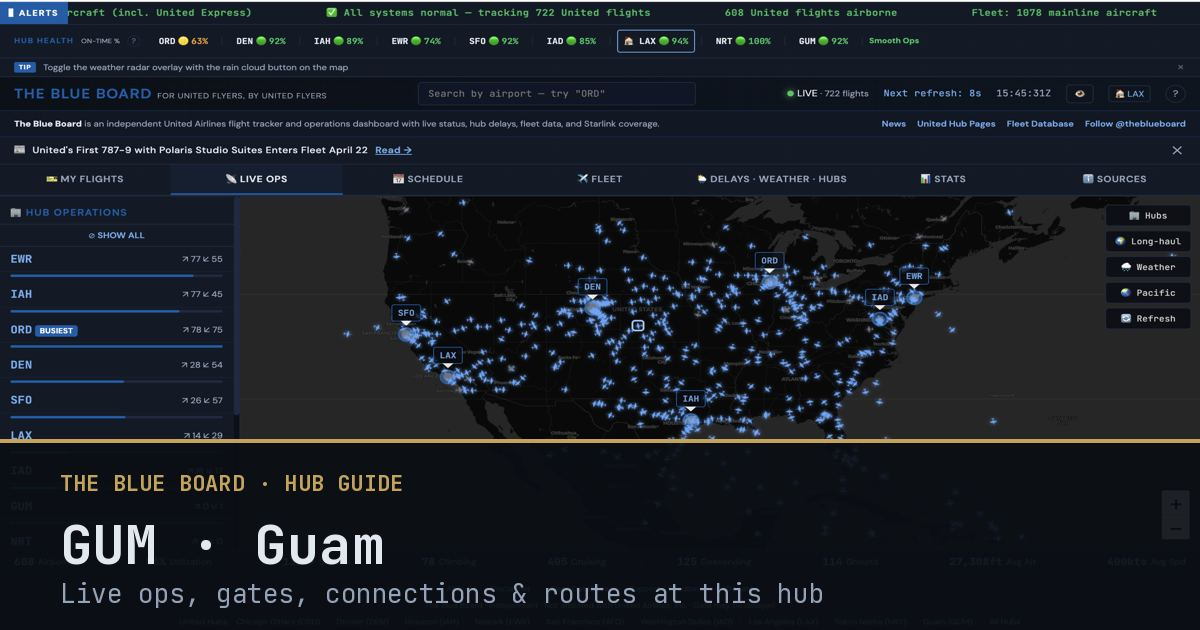
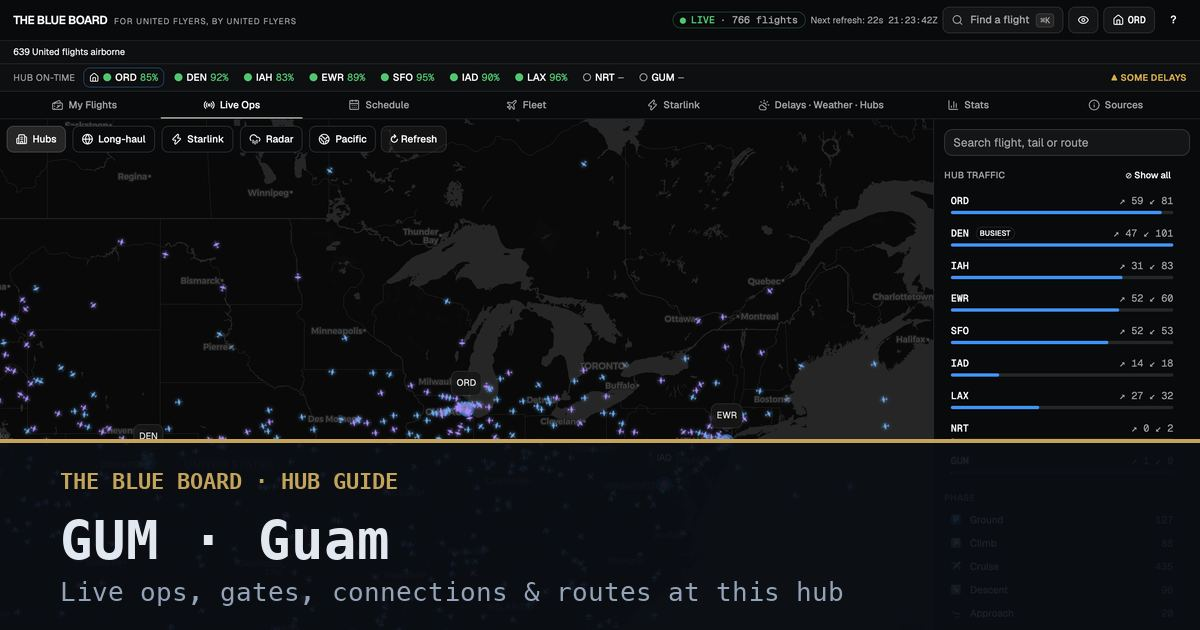
docs: README + social previews show the rebuilt site (v1.11.8)
- public/og-image.png still showed the pre-v1.8.0 dashboard; now today's Live
  Ops view. All 15 public/og/ cards regenerated from it; generate-og.py now
  shrinks titles that would overflow the card.
- README: new screenshots in docs/screenshots/, fleet 1,139, Starlink 600+,
  schedules credited to AeroDataBox (not FR24), current cron/cache timings,
  current Supabase tables, Supporters Wall + membership tiers.
- No change under public/email/ (the scheduled update email's images).

Claude-Session: https://claude.ai/code/session_01S1z7jwKVqTDCafSU9gufkN

diff --git a/scripts/generate-og.py b/scripts/generate-og.py
@@ -78,11 +78,21 @@ def render(label_top, label_main, label_sub, out_path):
     draw.rectangle([0, band_top, W, H], fill=BG_TINT)
     draw.line([0, band_top, W, band_top], fill=AMBER, width=4)
 
-    font_label = load_font(FONT_CANDIDATES_BOLD, 22)
-    font_main = load_font(FONT_CANDIDATES_BOLD, 54)
-    font_sub = load_font(FONT_CANDIDATES_REG, 26)
-
     pad_x = 60
+    font_label = load_font(FONT_CANDIDATES_BOLD, 22)
+    # Long titles ("What's United Building at Your Hub?") ran off the right edge at 54px:
+    # step the size down until each line fits inside the side padding.
+    main_size = 54
+    font_main = load_font(FONT_CANDIDATES_BOLD, main_size)
+    while main_size > 34 and draw.textlength(label_main, font=font_main) > W - 2 * pad_x:
+        main_size -= 2
+        font_main = load_font(FONT_CANDIDATES_BOLD, main_size)
+    sub_size = 26
+    font_sub = load_font(FONT_CANDIDATES_REG, sub_size)
+    while sub_size > 18 and draw.textlength(label_sub, font=font_sub) > W - 2 * pad_x:
+        sub_size -= 1
+        font_sub = load_font(FONT_CANDIDATES_REG, sub_size)
+
     y = band_top + 28
     draw.text((pad_x, y), label_top, font=font_label, fill=AMBER)
     y += 40

diff --git a/README.md b/README.md
@@ -4,7 +4,7 @@
 
 **[→ Live Dashboard](https://theblueboard.co)** · **[📋 Changelog](CHANGELOG.md)** · **[🎨 Design System](DESIGN.md)** · **[☕ Support the Project](https://buymeacoffee.com/notjbg)** · **[💡 Suggest a Feature](https://github.com/jonahberg/the-blue-board/issues)** · **[𝕏 Follow @theblueboard](https://x.com/theblueboard)**
 
-![The Blue Board — Live Operations Map](public/og-image.png)
+![The Blue Board — Live Ops: every United flight in the air, with on-time performance for every hub](docs/screenshots/live-ops.jpg)
 
 <!-- This is a static Markdown file and cannot import the data modules.
      Hub-count language and the fleet database count below must be kept in sync
@@ -21,6 +21,13 @@ The Blue Board is a fan-built operations dashboard that lets you see United Airl
 
 **Not affiliated with United Airlines, Inc.** This is an independent project by an aviation enthusiast.
 
+| | |
+|---|---|
+| ![Departure board for Chicago O'Hare with tail numbers, seat configs, Wi-Fi and LIVE tags](docs/screenshots/departure-board.jpg) | ![Starlink rollout: aircraft equipped and month-by-month installation pace](docs/screenshots/starlink.jpg) |
+| **Schedule** — every hub's departures and arrivals, with tail, seat config and Wi-Fi | **Starlink** — the rollout tracked tail by tail |
+| ![What's Changing at United's Hubs? tracker](docs/screenshots/hub-tracker.jpg) | ![The Blue Board on a phone](docs/screenshots/mobile.jpg) |
+| **Trackers** — every new club, gate and concourse at United's hubs | **Mobile** — built for the phone in your hand at the gate |
+
 ---
 
 ## Features
@@ -35,10 +42,10 @@ Server-side disruption scoring across all 8 United hubs plus the Tokyo-Narita ga
 Departure and arrival boards for all 9 UA hubs (ORD, DEN, IAH, EWR, SFO, IAD, LAX, NRT, GUM). Filter by status or aircraft type. Equipment swap detection flags when a plane type changes. On-time performance stats. All times in airport-local timezone.
 
 ### ✈ [Fleet](https://theblueboard.co#fleet)
-Complete database of 1,078+ mainline aircraft — searchable and sortable by type, registration, seat config, WiFi, and IFE. Live fleet status correlates airborne flights with the database, and a delivery timeline charts the fleet by family. **19 dedicated fleet type pages** ([737 MAX 9](https://theblueboard.co/fleet/737-max-9), [A321neo](https://theblueboard.co/fleet/a321neo), [787-9](https://theblueboard.co/fleet/787-9-dreamliner), etc.) with full aircraft registries, structured data, and cross-type navigation.
+Database of 1,139 mainline aircraft (snapshot as of Sep 28, 2026) — searchable and sortable by type, registration, seat config, WiFi, and IFE. Live fleet status correlates airborne flights with the database, and a delivery timeline charts the fleet by family. **19 dedicated fleet type pages** ([737 MAX 9](https://theblueboard.co/fleet/737-max-9), [A321neo](https://theblueboard.co/fleet/a321neo), [787-9](https://theblueboard.co/fleet/787-9-dreamliner), etc.) with full aircraft registries, structured data, and cross-type navigation.
 
 ### 🛰 [Starlink](https://theblueboard.co#starlink)
-Its own tab since the rebuild. The full roster of Starlink-equipped aircraft (500+ and climbing toward United's ~1,000 target) with sortable columns and filters by fleet, type, and operator, a retrofit-pace chart with a completion projection, and a mismatch report that flags aircraft the upstream tracker and the fleet database disagree about.
+Its own tab since the rebuild. The full roster of Starlink-equipped aircraft (600+ and climbing toward United's ~1,000 end-of-2026 target) with sortable columns and filters by fleet, type, and operator, a retrofit-pace chart with a completion projection, and a mismatch report that flags aircraft the upstream tracker and the fleet database disagree about.
 
 ### 🎫 [My Flights](https://theblueboard.co#myflight)
 Save the flights you actually care about. Add one by number, see its live position, route, aircraft and times, and pin it to the watch list for browser push notifications on status changes — including background alerts that fire with the tab closed ([setup](docs/setup-push-alerts.md)). Stored on your device; nothing is sent to a server you didn't ask for.
@@ -99,8 +106,8 @@ Living, data-driven pages that follow aviation's long-running stories — each w
     ┌──────────▼──────────────────────────────┐
     │        Vercel Serverless Functions       │
     │                                          │
-    │  /api/schedule        — hub boards (FR24 │
-    │                         + AeroDataBox)   │
+    │  /api/schedule        — hub boards       │
+    │                         (AeroDataBox)    │
     │  /api/irops           — IROPS metrics    │
     │  /api/fr24-feed       — live flight feed │
     │  /api/fr24-flight     — flight lookup    │
@@ -121,7 +128,7 @@ Living, data-driven pages that follow aviation's long-running stories — each w
     │  /api/fr24-usage      — credit monitor   │
     │                                          │
     │  Cron jobs (vercel.json):                │
-    │  /api/cron/warm-schedules  — hourly      │
+    │  /api/cron/warm-schedules  — every 30min │
     │  /api/cron/sync-starlink   — every 4hrs  │
     │  /api/cron/refresh-metar   — every 5min  │
     │  /api/cron/watch-alerts    — every 5min  │
@@ -130,7 +137,9 @@ Living, data-driven pages that follow aviation's long-running stories — each w
     ┌──────────▼──────────────────────────────┐
     │           Supabase (Postgres)            │
     │  waitlist · schedule_snapshots           │
-    │  news_notifications · push_subscriptions │
+    │  reg_sightings · watch_subscriptions     │
+    │  schedule_provider_spend                 │
+    │  news_notifications · starlink_snapshot  │
     │  RLS policies on every table             │
     └─────────────────────────────────────────┘
 ```
@@ -143,7 +152,7 @@ asset prefix.
 ### Why Server-Side Proxies?
 
 - **Rate limiting** — One server fetches data for all users, not 500 browsers hammering APIs independently
-- **Caching** — Complete schedule boards cached up to 6h at the edge (60s when partial), IROPS cached 5min, reducing upstream load by 90%+
+- **Caching** — Schedule boards are served from the edge cache and Supabase snapshots and refreshed through the day (hourly while people are viewing them), IROPS cached 5min, reducing upstream load by 90%+
 - **UA filtering** — Server filters to United flights only, shrinking payloads dramatically
 - **CORS** — Some sources (AWC, FAA) don't allow direct browser requests
 - **Batching** — METAR data for all 9 tracked boards (United's 8 hubs plus the Tokyo-Narita gateway) fetched in a single request
@@ -154,16 +163,16 @@ asset prefix.
 
 | Source | Data | Freshness | Notes |
 |--------|------|-----------|-------|
-| [Flightradar24](https://flightradar24.com) | Live positions, schedules, flight lookup | ~15s–60s | Server-side proxy with caching; schedules can recover through a configured FR24 scraper transport when direct fetches are blocked |
-| [AeroDataBox](https://aerodatabox.com) | Hub schedule boards (refresh + fallback) | Hourly warm + on-demand | Metered api.market (MagicAPI) gateway (RapidAPI-compatible); spend capped by a cross-instance daily unit budget |
+| [Flightradar24](https://flightradar24.com) | Live positions, flight lookup, aircraft history | ~15s–60s | Official FR24 API, server-side proxy with caching |
+| [AeroDataBox](https://aerodatabox.com) | Hub schedule boards | Every 30 min + on-demand | Metered api.market (MagicAPI) gateway (RapidAPI-compatible); spend capped by a cross-instance daily unit budget |
 | [Aviation Weather Center](https://aviationweather.gov) | METAR observations | ~5min | NOAA/CORS proxy, batched |
 | [FAA NAS Status](https://nasstatus.faa.gov) | Delays & ground stops | ~5min | XML→JSON proxy |
-| [United Fleet Site](https://unitedfleetsite.com/) | Fleet database | Daily | Community-maintained |
-| [Starlink Tracker](https://unitedstarlinktracker.com) | WiFi-equipped aircraft | Daily | [@martinamps](https://github.com/martinamps/ua-starlink-tracker) |
+| [United Fleet Site](https://unitedfleetsite.com/) | Fleet database | Periodic snapshot (Sep 28, 2026) | Community-maintained; new tails confirmed in the FAA registry |
+| [Starlink Tracker](https://unitedstarlinktracker.com) | WiFi-equipped aircraft | Every 4 hours | [@martinamps](https://github.com/martinamps/ua-starlink-tracker) |
 | [Iowa State NEXRAD](https://mesonet.agron.iastate.edu) | Radar imagery | ~5min | Direct tile server |
-| [Supabase](https://supabase.com) | Waitlist, schedule snapshots, notifications | Real-time | Postgres with RLS |
-| [Anthropic Claude](https://anthropic.com) | AI delay explanations | On-demand | Haiku model, cached 5min |
-| [Resend](https://resend.com) | Email delivery | On-demand | Welcome emails, news digests |
+| [Supabase](https://supabase.com) | Waitlist, schedule snapshots, tail sightings, watch alerts | Real-time | Postgres with RLS |
+| [Anthropic Claude](https://anthropic.com) | AI delay explanations | On-demand | Claude Haiku 4.5 via Vercel AI Gateway, cached 5min |
+| [Resend](https://resend.com) | Email delivery | On-demand | Welcome emails, update emails |
 
 ---
 
@@ -177,8 +186,8 @@ asset prefix.
 - **Radar:** Iowa State NEXRAD WMS tiles
 - **Fonts:** [Geist Sans + Geist Mono](https://vercel.com/font) via `@fontsource-variable`, bundled into `_astro/` — no font CDN
 - **Hosting:** [Vercel](https://vercel.com) (serverless functions + edge CDN + routing middleware)
-- **Database:** [Supabase](https://supabase.com) (waitlist, schedule snapshots, news notifications, push subscriptions)
-- **Email:** [Resend](https://resend.com) (waitlist welcome emails, news digest broadcasts)
+- **Database:** [Supabase](https://supabase.com) (waitlist, schedule snapshots, tail sightings, watch subscriptions, provider spend)
+- **Email:** [Resend](https://resend.com) (waitlist welcome emails, update broadcasts)
 - **AI:** [Anthropic Claude](https://anthropic.com) via the Vercel AI Gateway (delay explanations)
 - **Runtime:** [Bun](https://bun.sh) (package manager + script runner)
 - **Testing:** [Vitest](https://vitest.dev) + [Playwright](https://playwright.dev) (`bun run test`, never bare `bun test`)
@@ -247,9 +256,9 @@ This project is free, ad-free, and open source. It costs real money to keep runn
 
 If The Blue Board has saved you a trip to the gate screen or helped you spot an equipment swap before boarding, consider supporting the project:
 
-### **[→ Donate](https://buymeacoffee.com/notjbg)**
+### **[→ Buy the board a Wi-Fi pass](https://buymeacoffee.com/notjbg)** · **[→ Become a member](https://buymeacoffee.com/notjbg/membership)**
 
-Every donation helps cover server costs and keeps the dashboard free for everyone. You can also suggest a feature with your coffee — I read every one.
+Every supporter goes on the **Supporters Wall** (About, on the dashboard). Memberships start at $3/month: Crew Members get their name on the wall, First Class members also get *The Ops Brief* — a monthly behind-the-scenes note — and Captain's Circle feature requests go to the front of the line. You can also suggest a feature with your support — I read every one.
 
 ---
 

diff --git a/CHANGELOG.md b/CHANGELOG.md
@@ -4,6 +4,12 @@ All notable changes to The Blue Board are documented here.
 
 Format based on [Keep a Changelog](https://keepachangelog.com/en/1.1.0/), versioned per [Semantic Versioning](https://semver.org/spec/v2.0.0.html).
 
+## [1.11.8] - 2026-10-03
+
+### Changed
+- **Social preview images show the current site.** `public/og-image.png` (the card for every shared theblueboard.co link) still showed the pre-v1.8.0 dashboard — emoji tabs, "Fleet: 1078". It's now today's Live Ops view, and all 15 section/hub/tracker cards in `public/og/` are regenerated from it with `scripts/generate-og.py`, which now shrinks a title that would run off the card ("What's United Building at Your Hub?" lost its "?").
+- **README refreshed:** new screenshots (`docs/screenshots/`), fleet count 1,078 → 1,139 (Sep 28 snapshot), Starlink 500+ → 600+, schedule boards credited to AeroDataBox (not Flightradar24, matching the site's own attribution), cron and cache timings brought up to date (warm every 30 min, Starlink every 4h, no more "6h edge cache"), Supabase tables listed as they are, and the support section names the Supporters Wall and membership tiers.
+
 ## [1.11.7] - 2026-10-03
 
 ### Added
